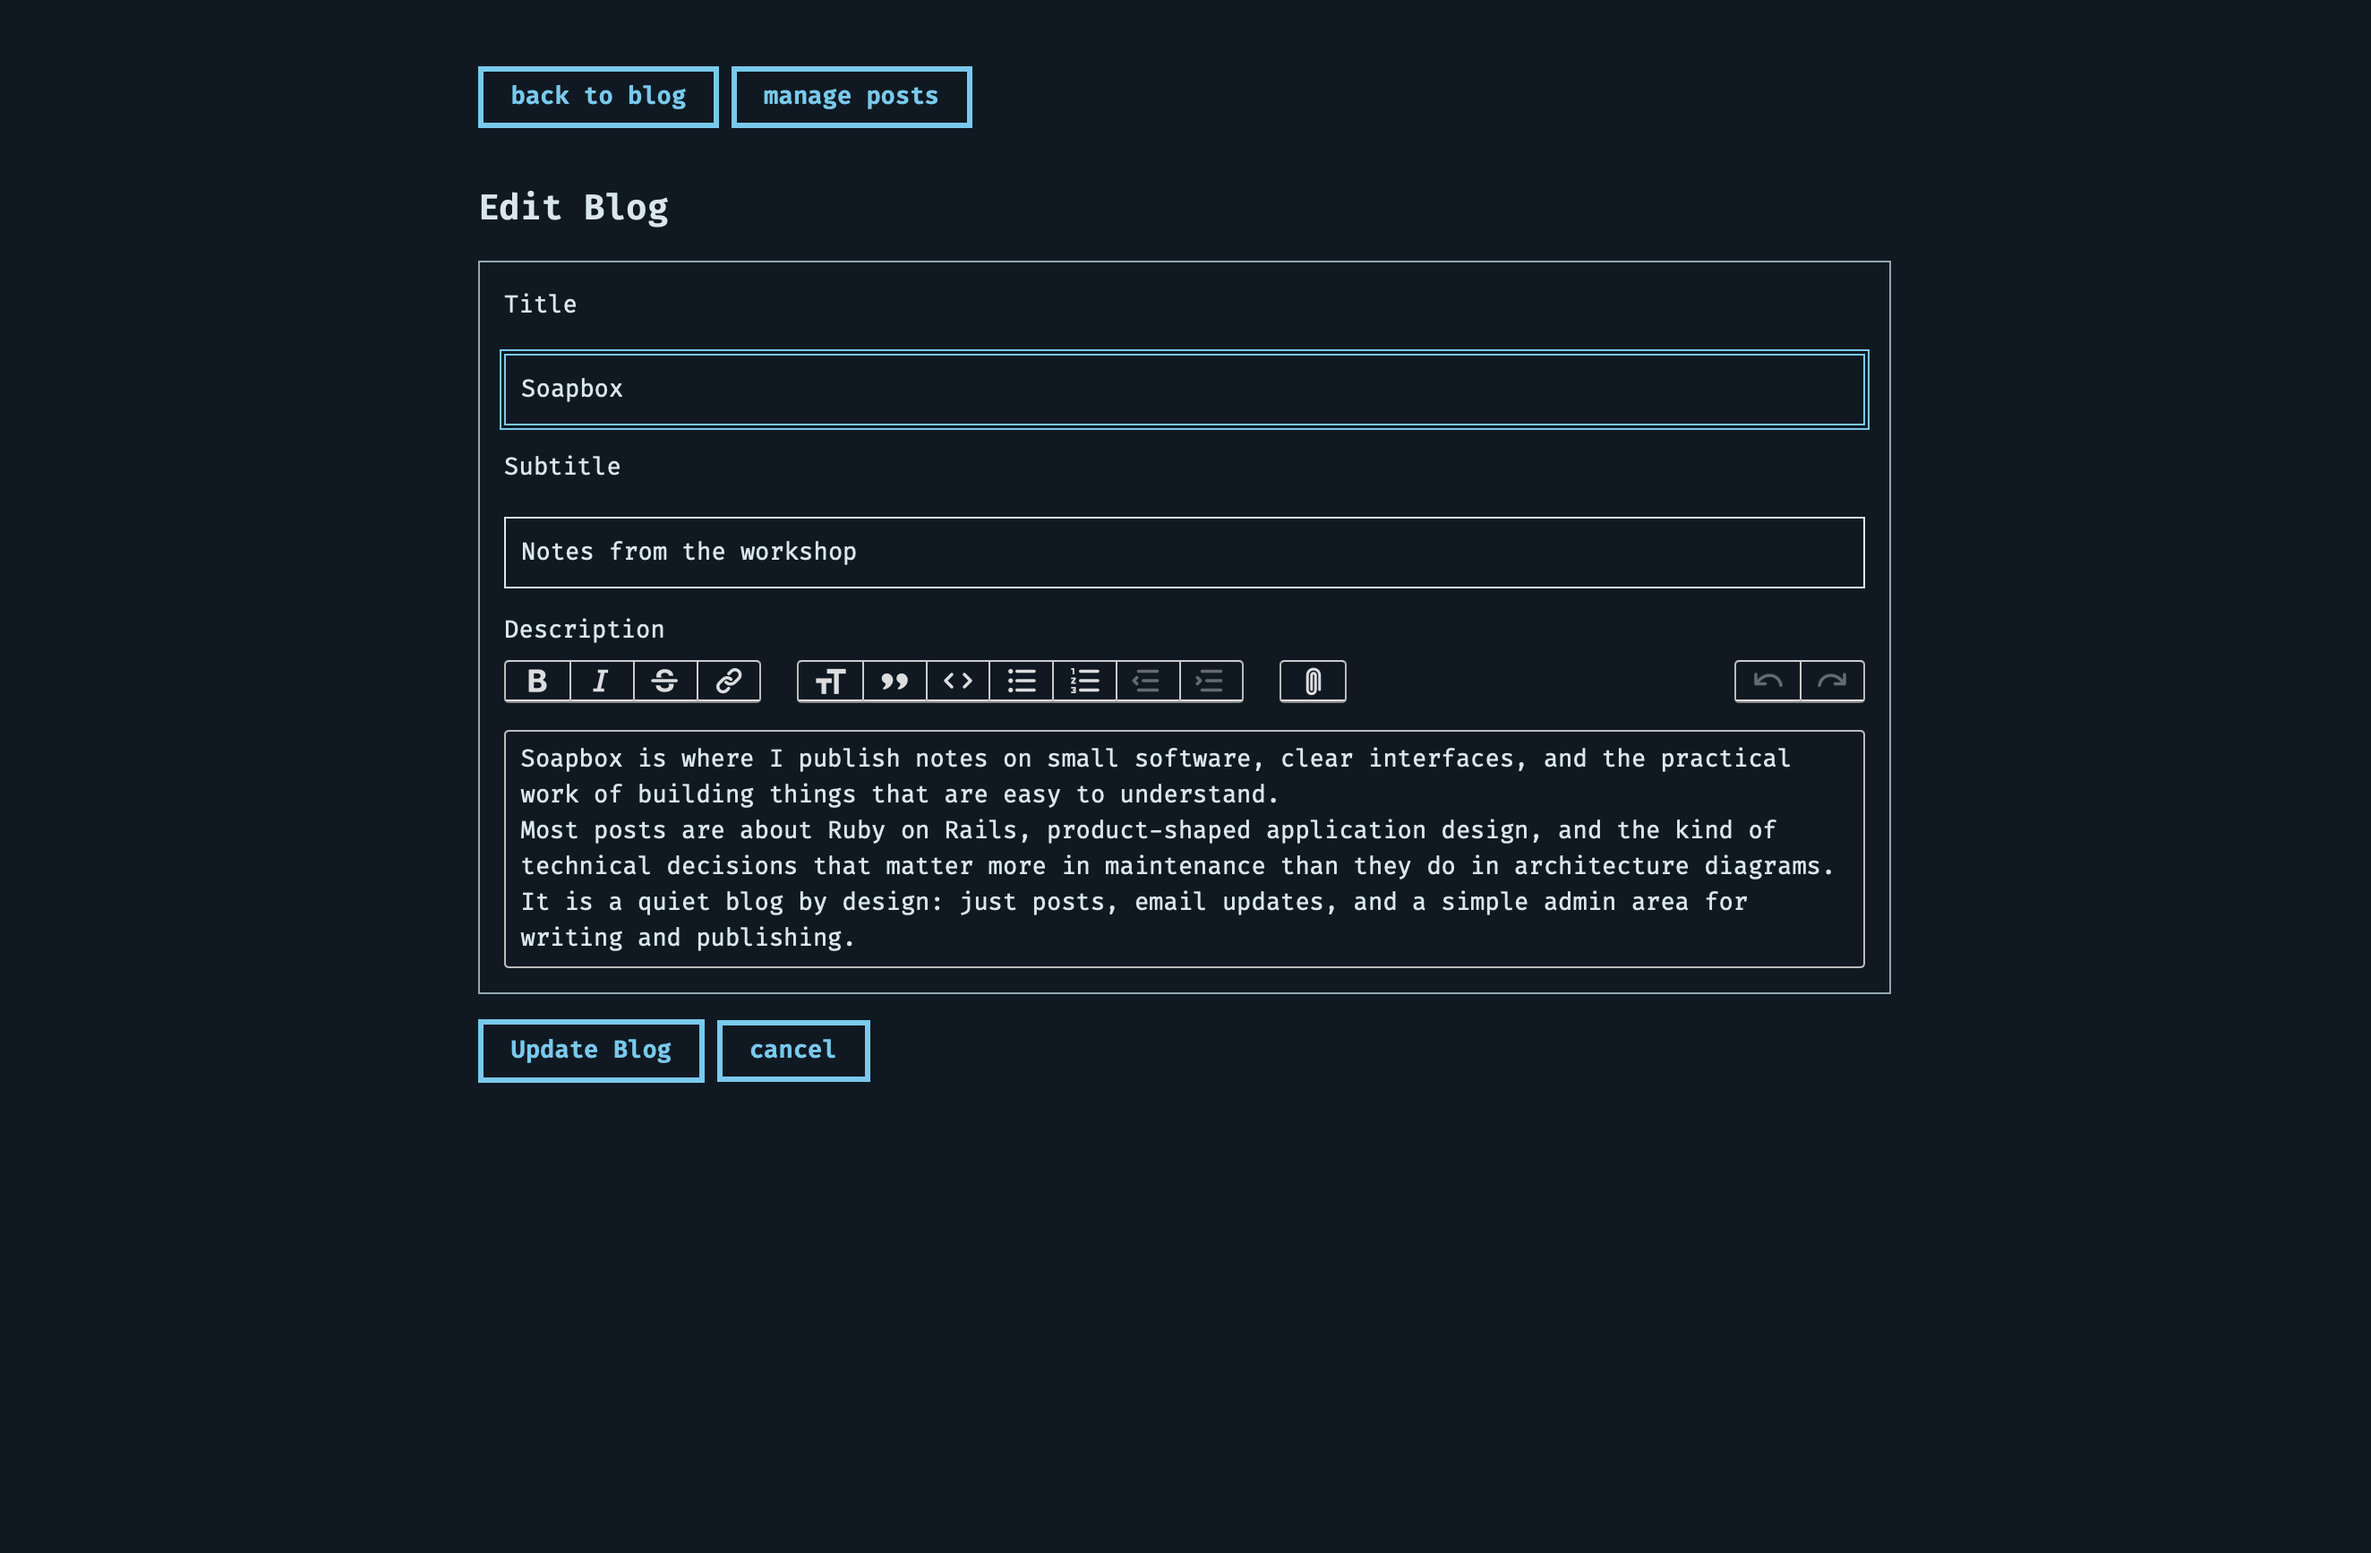
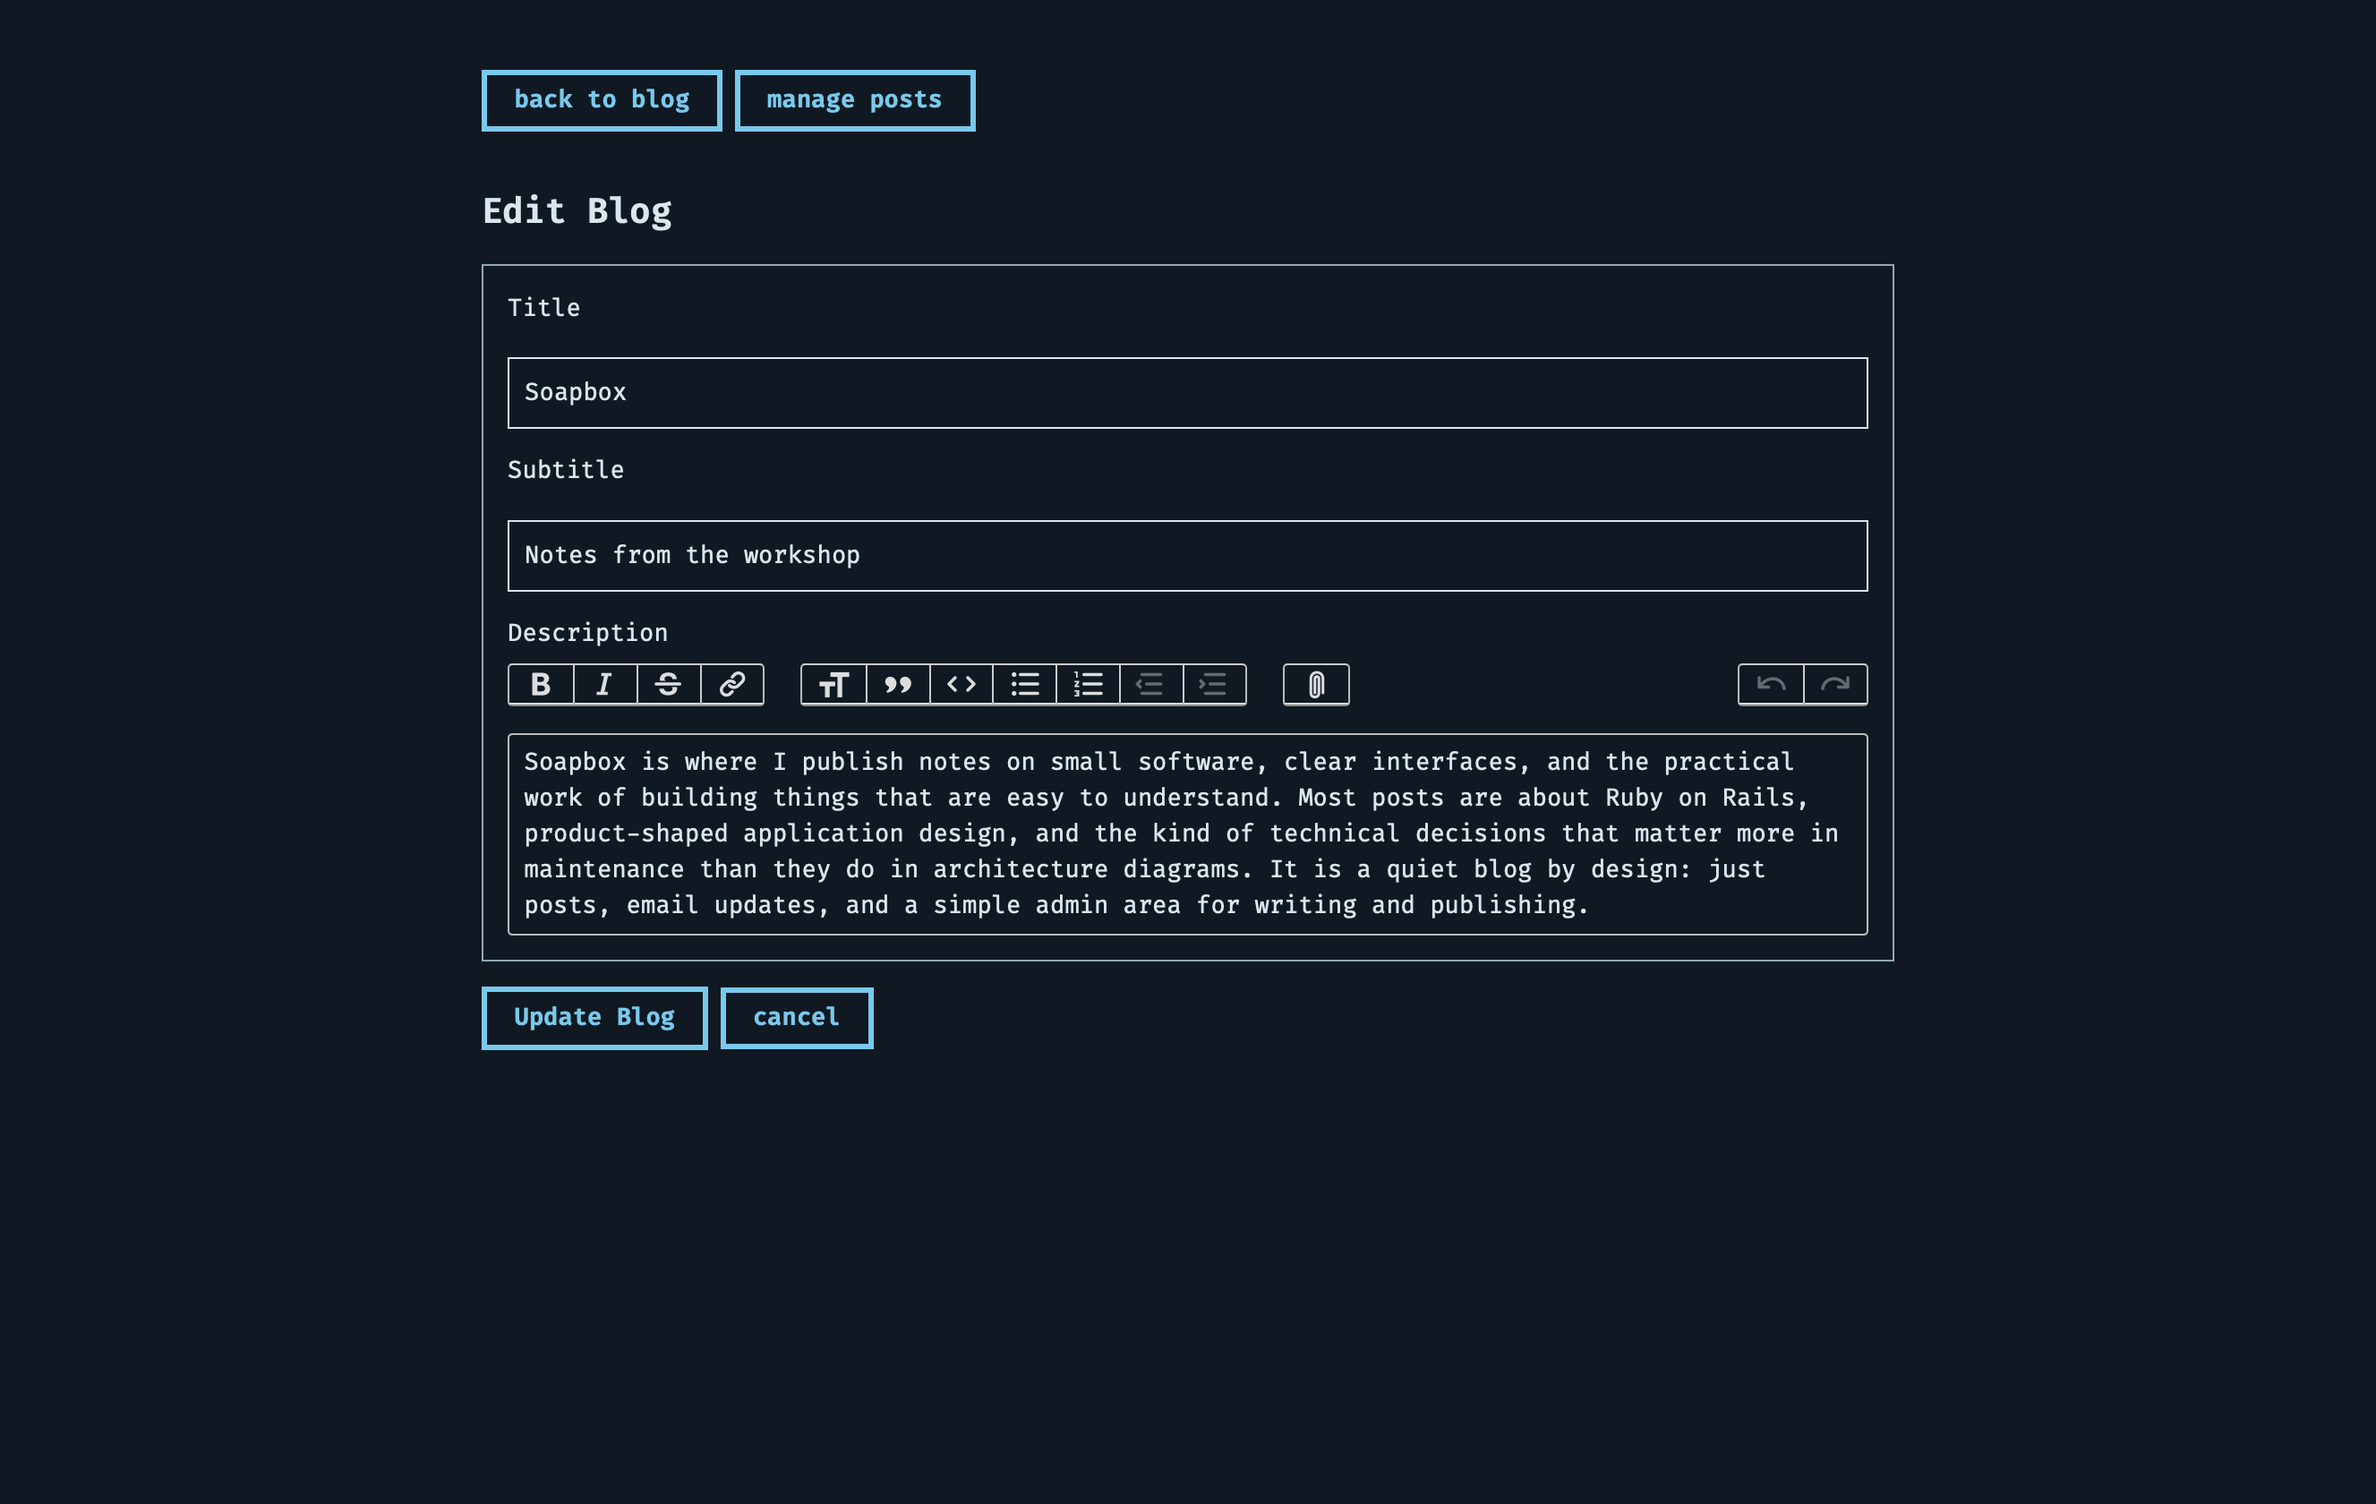
user guide improvements

Changed region(s): [[0.1858, 0.1857, 0.8051, 0.7119], [0.1858, 0.031, 0.4026, 0.0929], [0.1858, 0.1238, 0.2787, 0.1548]]

diff --git a/docs/user-guide.md b/docs/user-guide.md
@@ -64,17 +64,17 @@ On the homepage, readers see the blog title, any configured subtitle and descrip
 
 ![Public homepage](user-guide/screenshots/public-home.png)
 
+Path: `/`
+
 Each post page shows the full post content for a single entry. The signup form appears there as well, so a reader who discovers the site through one post can still subscribe easily.
 
 ![Public post page](user-guide/screenshots/public-post.png)
 
-For you as the author, this means the public side of Soapbox stays calm and uncluttered. Most of the decisions that shape what readers see happen in the admin area.
+Path: `/posts/:slug`
 
 ## The Admin Home Page
 
-The admin home page is deliberately simple. It is a starting point rather than a dashboard full of metrics.
-
-From this page, you can:
+The admin home page is deliberately simple. It is a starting point rather than a dashboard full of metrics. From this page, you can:
 
 - go back to the public blog
 - manage your account
@@ -82,23 +82,25 @@ From this page, you can:
 - manage posts
 - manage subscribers
 
-If you think of Soapbox as a handful of small jobs rather than one large system, the admin home page reflects that idea clearly.
-
 ![Admin home page](user-guide/screenshots/admin-home.png)
+
+Path: `/admin`
 
 ## Managing Blog Settings
 
-The blog settings area controls the publication's identity. This is where you set or update the blog title, subtitle, and description.
+The blog settings area controls the publication's identity.
 
 The title is the main name of the publication. The subtitle adds a short secondary line when you want one. The description gives you a richer introduction on the public homepage and supports rich text, so it can be more expressive than a plain text tagline.
 
-This is also where you finish part of the setup that `bin/rails site:setup` cannot complete. Because the description is rich text, it is edited here in the browser instead of being collected in the terminal.
-
 ![Blog settings overview](user-guide/screenshots/admin-blog-show.png)
 
-When you choose to edit the blog, Soapbox shows a focused form with just the fields that matter.
+Path: `/admin/blog`
+
+You can set or update the blog title, subtitle, and description by editing the blog. This is also where you finish part of the setup that `bin/rails site:setup` cannot complete. Because the description is rich text, it is edited here in the browser instead of being collected in the terminal.
 
 ![Edit blog settings](user-guide/screenshots/admin-blog-edit.png)
+
+Path: `/admin/blog/edit`
 
 ## Managing Posts
 
@@ -106,57 +108,62 @@ Posts are at the center of the application. The posts index shows your existing 
 
 ![Posts index](user-guide/screenshots/admin-posts-index.png)
 
+Path: `/admin/posts`
+
 Creating a post begins with a small form:
 
 - `title` is the post title readers will see
-- `slug` is the URL path for the post
-- `pinned` lets you keep an important post prominent
-- `summary` is the shorter preview used in listings
+- `slug` is the URL path for the post (on a new post, the slug will automatically be set from the title if it is not specifically given)
+- `pinned` lets you keep an important post prominent; pinned posts appear first in the list of posts on the home page of the public blog
+- `summary` is an optional, shorter preview used in listings; posts without a given summary will be summarized using the first 80 words of their content
 - `content` is the full post body
 
 New posts begin as drafts. That gives you room to write, revise, and preview your work before making it public.
 
 ![New post form](user-guide/screenshots/admin-post-new.png)
 
-The post editor uses rich text fields for summary and content, which makes it practical to do normal writing directly in the browser. Soapbox keeps the writing workflow narrow on purpose: the goal is to help you publish clearly, not to bury the act of writing under a large editorial system.
+Path: `/admin/posts/new`
+
 
 ## Reviewing A Post
 
-Each post has a detail page in the admin area. This page brings together the information and actions that matter once a draft starts becoming a finished piece.
-
-Here you can review the post title, slug, publication status, email status, and published date. You can also read the summary and full content in one place before deciding what to do next.
+Each post has a detail page in the admin area where you can review the post.
 
 ![Post detail page](user-guide/screenshots/admin-post-show.png)
 
-In practice, this page becomes the post's control center. It is where you check whether the post is still a draft, whether it has already been published, and whether email delivery has begun.
+Path: `/admin/posts/:slug`
 
 ## Publishing And Emailing Posts
+
+The post detail page also acts as the post's control center. You can view and change the post's publishing status and email status.
 
 Soapbox treats publication and email delivery as related but separate decisions.
 
 Publishing a post makes it visible on the public site. Unpublishing removes it from public view. This lets you control when a post appears on the blog itself.
 
-Email delivery is a separate step. A post must be published before emails can begin, but publishing alone does not automatically send anything. That separation is useful because it lets you make the post public first, confirm that everything looks right, and then deliberately start email delivery.
+Email delivery is a separate step. A post must be published before emails can begin, but publishing alone does not automatically send anything. This separation makes it less likely for email delivery (which is irreversible) to accidentally be performed prematurely.
 
-When you start emails for a post, Soapbox moves the post into a pending email state. While the post is pending, email delivery can still be stopped. This pending state will last ~1 minute. Once delivery has been initiated, that status is preserved as part of the post's history.
-
-This small distinction matters in everyday use. If you publish a post and then notice something you want to fix before it goes out by email, you still have a short, explicit point of control.
+When you start emails for a post, Soapbox moves the post into a pending email state. This pending state will last about one minute. While the post is pending, email delivery can still be stopped and the email status will return to `not started`. Once delivery has been initiated, that status is preserved as part of the post's history.
 
 ## Managing Subscribers
 
-The subscribers area shows the people who have signed up to receive your posts by email. Like the posts area, it stays intentionally small and focused.
-
-The subscribers index shows each subscriber's email address, current status, and last update time. If you need to find someone quickly, you can search by email address. This page is also the starting point for adding someone manually.
+The subscribers area shows the people who have signed up to receive your posts by email. The subscribers index shows each subscriber's email address, current status, and last update time. If you need to find someone quickly, you can search by email address. This page is also the starting point for adding someone manually.
 
 ![Subscribers index](user-guide/screenshots/admin-subscribers-index.png)
 
-If you choose `add subscriber`, Soapbox takes you to a small form that asks only for the subscriber's email address. New subscribers created from the admin area are activated as part of creation, which keeps the normal path short.
+Path: `/admin/subscribers`
+
+If you choose `add subscriber`, Soapbox takes you to a small form that asks only for the subscriber's email address. New subscribers created from the admin area are activated as part of creation.
 
 ![New subscriber form](user-guide/screenshots/admin-subscriber-new.png)
+
+Path: `/admin/subscribers/new`
 
 Each subscriber has a detail page where you can review their current status and take action.
 
 ![Subscriber detail page](user-guide/screenshots/admin-subscriber-show.png)
+
+Path: `/admin/subscribers/:id`
 
 Subscribers can be activated or deactivated. In practical terms, that controls whether the subscriber is currently part of the mailing list.
 
@@ -164,15 +171,4 @@ If you need to correct or update an address, the subscriber's edit page gives yo
 
 ![Edit subscriber](user-guide/screenshots/admin-subscriber-edit.png)
 
-## A Simple Day-To-Day Workflow
-
-Once Soapbox is set up, the normal routine is short:
-
-1. Sign in at `/admin`.
-2. Create a new post or continue editing a draft.
-3. Review the post on its admin page.
-4. Publish it when it is ready to appear on the site.
-5. Start emails when you want the post delivered to subscribers.
-6. Review subscribers or blog settings as needed.
-
-That small loop is the point of the product. Soapbox is built to keep the mechanics of running a blog close at hand without turning them into a larger publishing system than a single author needs.
+Path: `/admin/subscribers/:id/edit`
